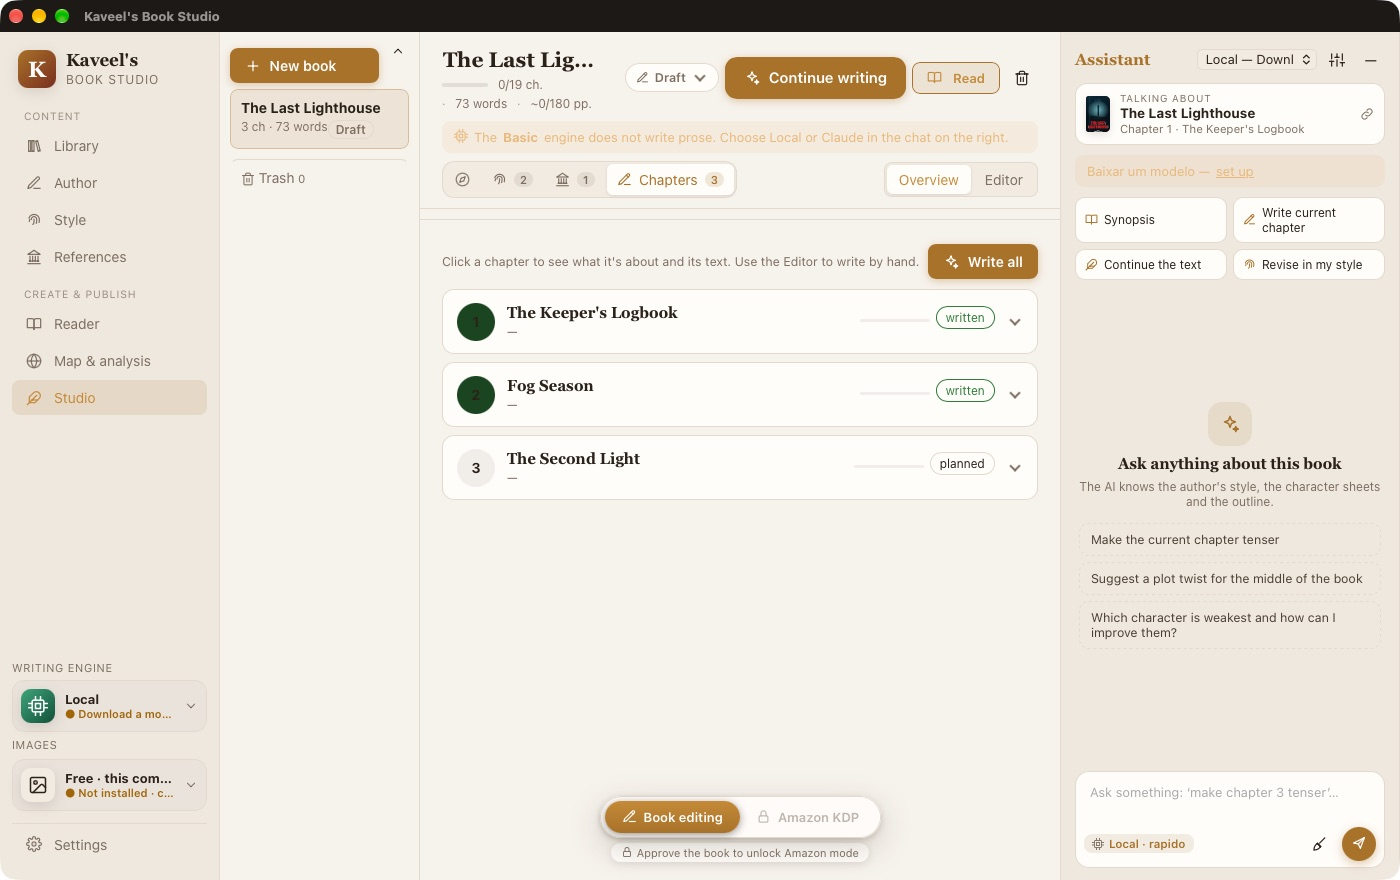
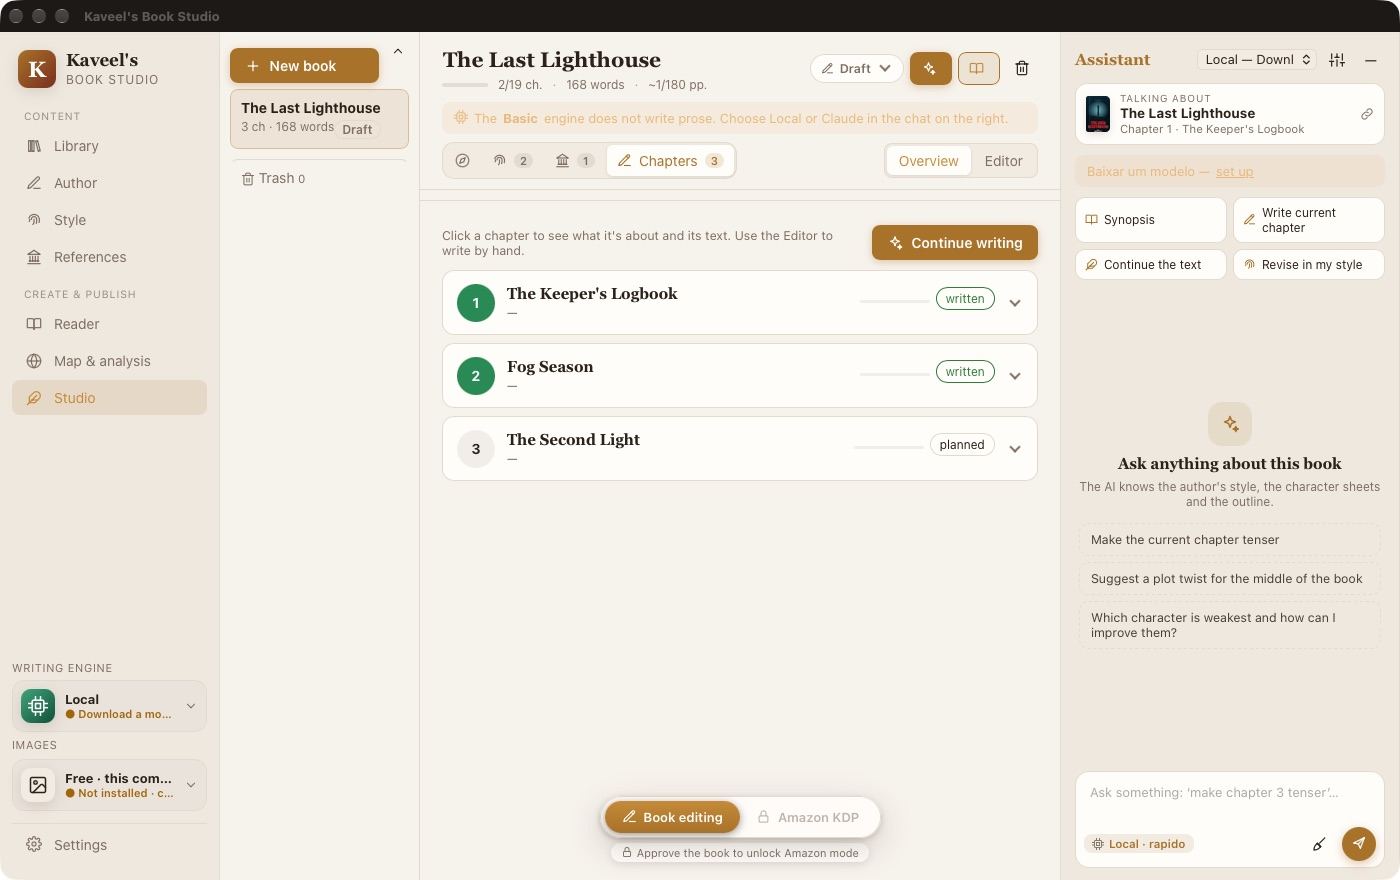
Kaveel's Book Studio: updated Studio screenshot

Changed region(s): [[0.3071, 0.0614, 0.7679, 0.5523], [0.0, 0.0, 0.1536, 0.0307], [0.1843, 0.1227, 0.2764, 0.1534]]

diff --git a/index.html b/index.html
@@ -272,7 +272,7 @@
             <div class="ql-stage"></div>
             <div class="ql-thumbs" role="group" aria-label="Capturas de tela">
             <button class="shot" type="button"><img data-src="assets/shots/kaveelsbook/hero.jpg?v=202611171400" alt="Acervo com as capas dos livros" width="1400" height="880"></button>
-            <button class="shot" type="button"><img data-src="assets/shots/kaveelsbook/studio.jpg?v=202611171400" alt="Estúdio com os capítulos e o assistente" width="1400" height="880"></button>
+            <button class="shot" type="button"><img data-src="assets/shots/kaveelsbook/studio.jpg?v=202611171700" alt="Estúdio com os capítulos e o assistente" width="1400" height="880"></button>
             <button class="shot" type="button"><img data-src="assets/shots/kaveelsbook/kdp.jpg?v=202611171600" alt="Modo Amazon KDP com os dados do livro e a capa" width="1400" height="880"></button>
             </div>
           </div>

diff --git a/kaveelsbook/index.html b/kaveelsbook/index.html
@@ -86,7 +86,7 @@
           <li><b>Modo Amazon</b>: um botão troca a edição pela publicação na KDP.</li>
         </ul>
       </div>
-      <div class="wu-media"><figure><button class="shot" type="button"><img src="../assets/shots/kaveelsbook/studio.jpg?v=202611171400" alt="Estúdio com os capítulos e o assistente" loading="lazy" width="1400" height="880"></button></figure></div>
+      <div class="wu-media"><figure><button class="shot" type="button"><img src="../assets/shots/kaveelsbook/studio.jpg?v=202611171700" alt="Estúdio com os capítulos e o assistente" loading="lazy" width="1400" height="880"></button></figure></div>
     </div>
   </section>
   <section class="section container">
